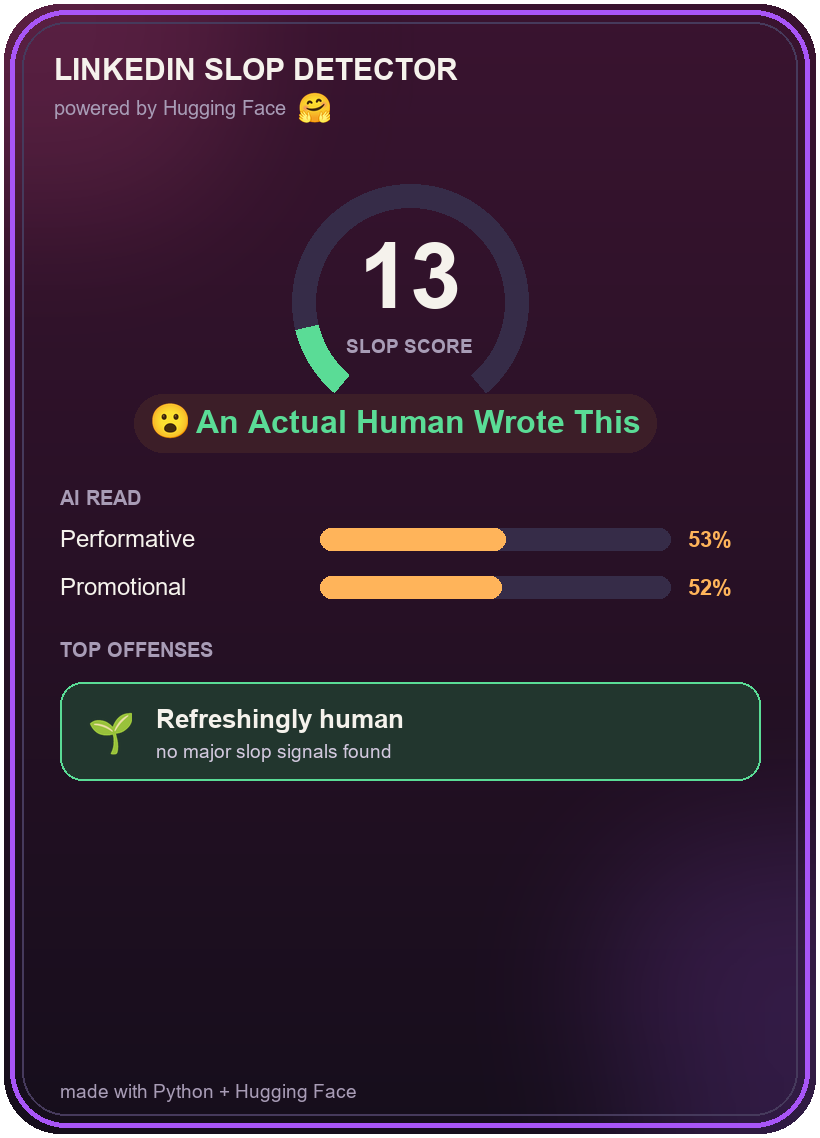
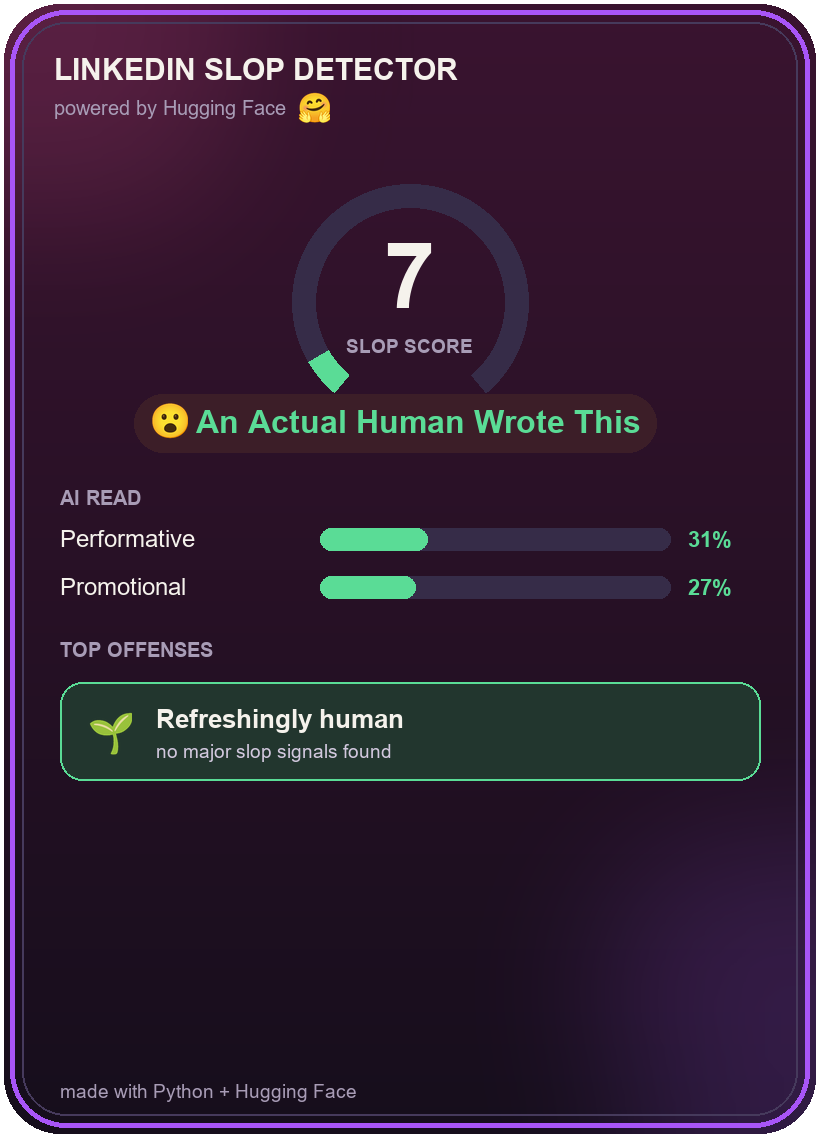
added uppercase method

diff --git a/slop.py b/slop.py
@@ -42,6 +42,13 @@ def emoji_bullets(text):
     lines = [l.strip() for l in text.splitlines() if l.strip()]
     return sum(1 for l in lines if not l[0].isascii())
 
+def whole_uppercase(text):
+    """Fraction of words that are all-caps (shouting)."""
+    words = [w for w in text.split() if w.isalpha()]
+    upper = sum(1 for w in words if w.isupper())
+    return upper / len(words) if words else 0
+
+
 def score_signals(signals):
     """Turn the precomputed signal map into a weighted score and an offense count."""
     score = min(20, signals["broetry"] * 28)
@@ -50,6 +57,7 @@ def score_signals(signals):
     score += min(12, signals["emoji_bullets"] * 2)
     score += min(8, signals["dashes"] * 3)
     score += min(12, signals["anaphora"] * 3)
+    score += min(8, signals["all_uppercase"] * 8)
 
     offenses = sum([
         signals["broetry"] >= 0.4,
@@ -58,6 +66,7 @@ def score_signals(signals):
         signals["emoji_bullets"] >= 2,
         signals["dashes"] > 0,
         signals["anaphora"] >= 2,
+        signals["all_uppercase"] >= 0.5
     ])
 
     return min(80, score), offenses
@@ -93,11 +102,29 @@ def console_safe(text):
 
 def main():
     # paste your own post between the triple quotes!
-    text = """Ever tried fitting everything into one bag… and it just turns into a mess?
-This one doesn’t.
-With 10+ smart pockets, dedicated space for your essentials, and a layout that actually makes sense—everything stays exactly where you need it.
-No digging. No stress
-"""
+    text = """
+            As programmers, we're trained to solve problems.
+
+Ironically, sometimes the hardest problem isn't in our code—it's in our own minds.
+
+A bug that feels impossible often turns out to be a missing bracket.
+
+An assignment that seems overwhelming becomes manageable once we break it into smaller tasks.
+
+A challenge that keeps us awake at night is often much smaller than we imagined.
+
+Programming has taught me an unexpected lesson:
+
+Don't panic before you understand the problem.
+
+Analyze it.
+Break it down.
+Solve one piece at a time.
+
+Because whether it's debugging code or dealing with life, the biggest obstacle is often the story we tell ourselves before we even begin.
+
+Sometimes, the problem isn't as big as it looks. 💻
+    """
 
     signals = {
         "broetry": broetry_ratio(text),
@@ -106,6 +133,7 @@ No digging. No stress
         "emoji_bullets": emoji_bullets(text),
         "dashes": excess_dashes(text),
         "anaphora": anaphora_hits(text),
+        "all_uppercase": whole_uppercase(text),
     }
     ai_signals = {
         "performative": performative_score(text, HF_TOKEN),